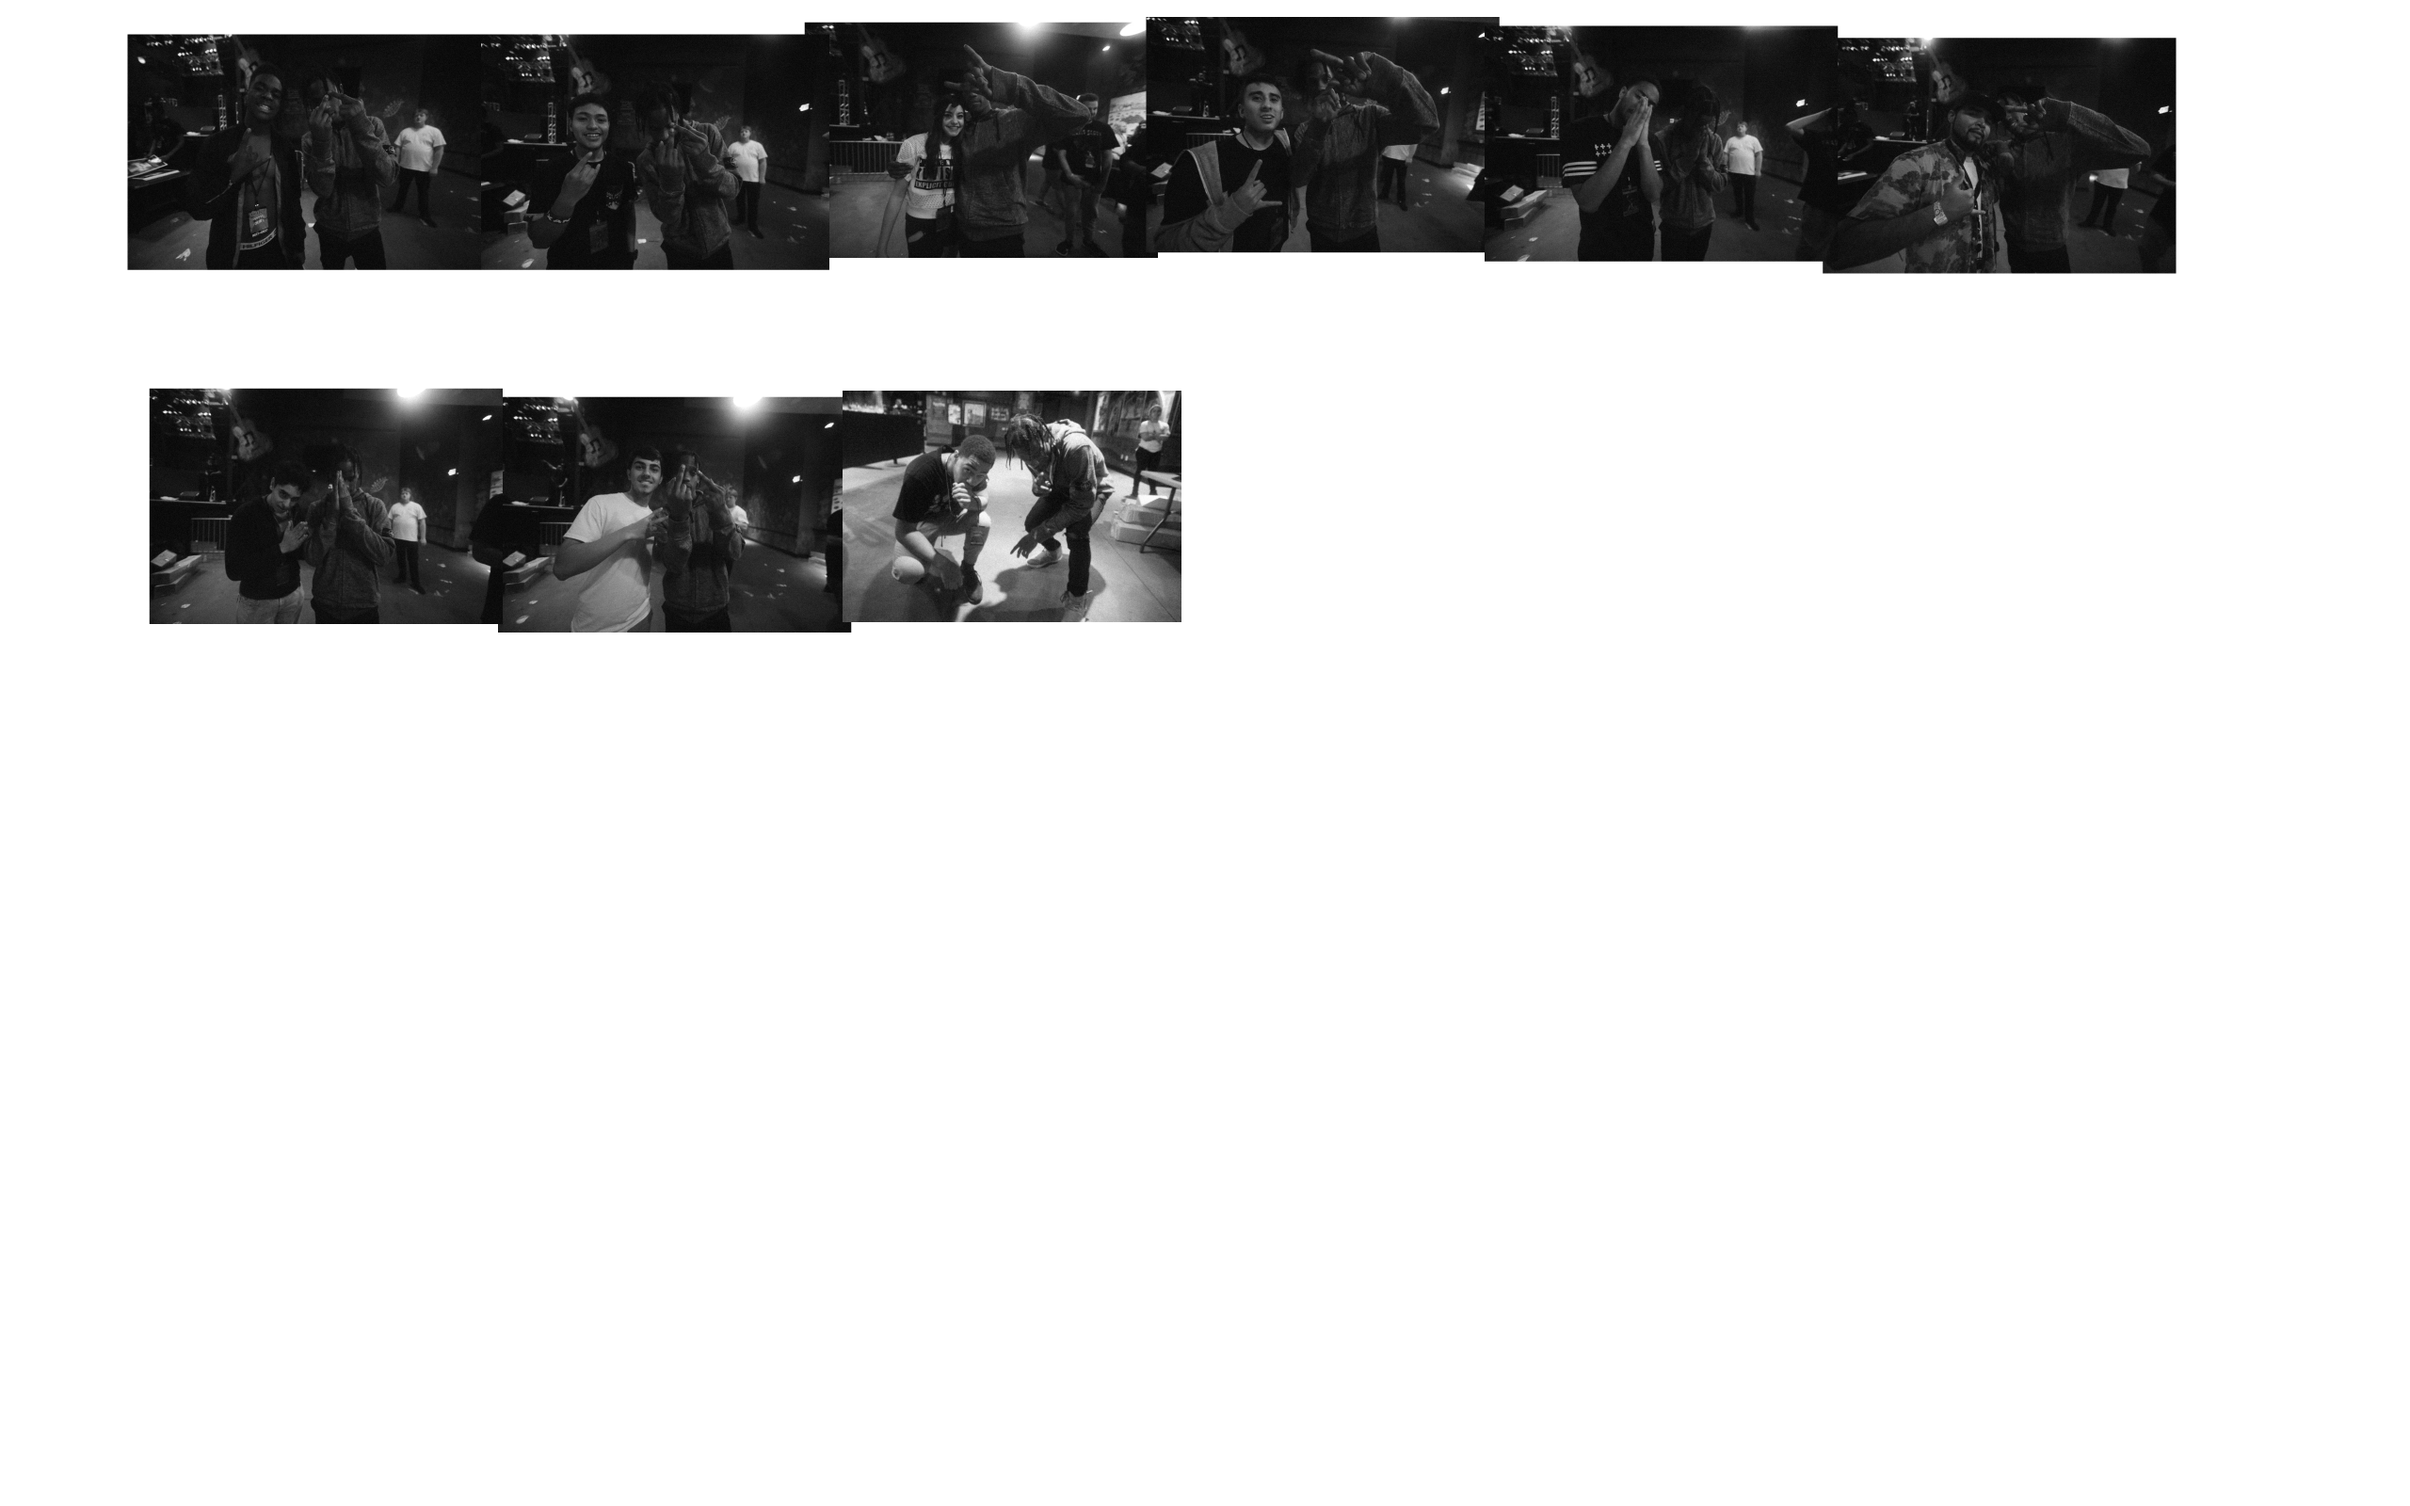
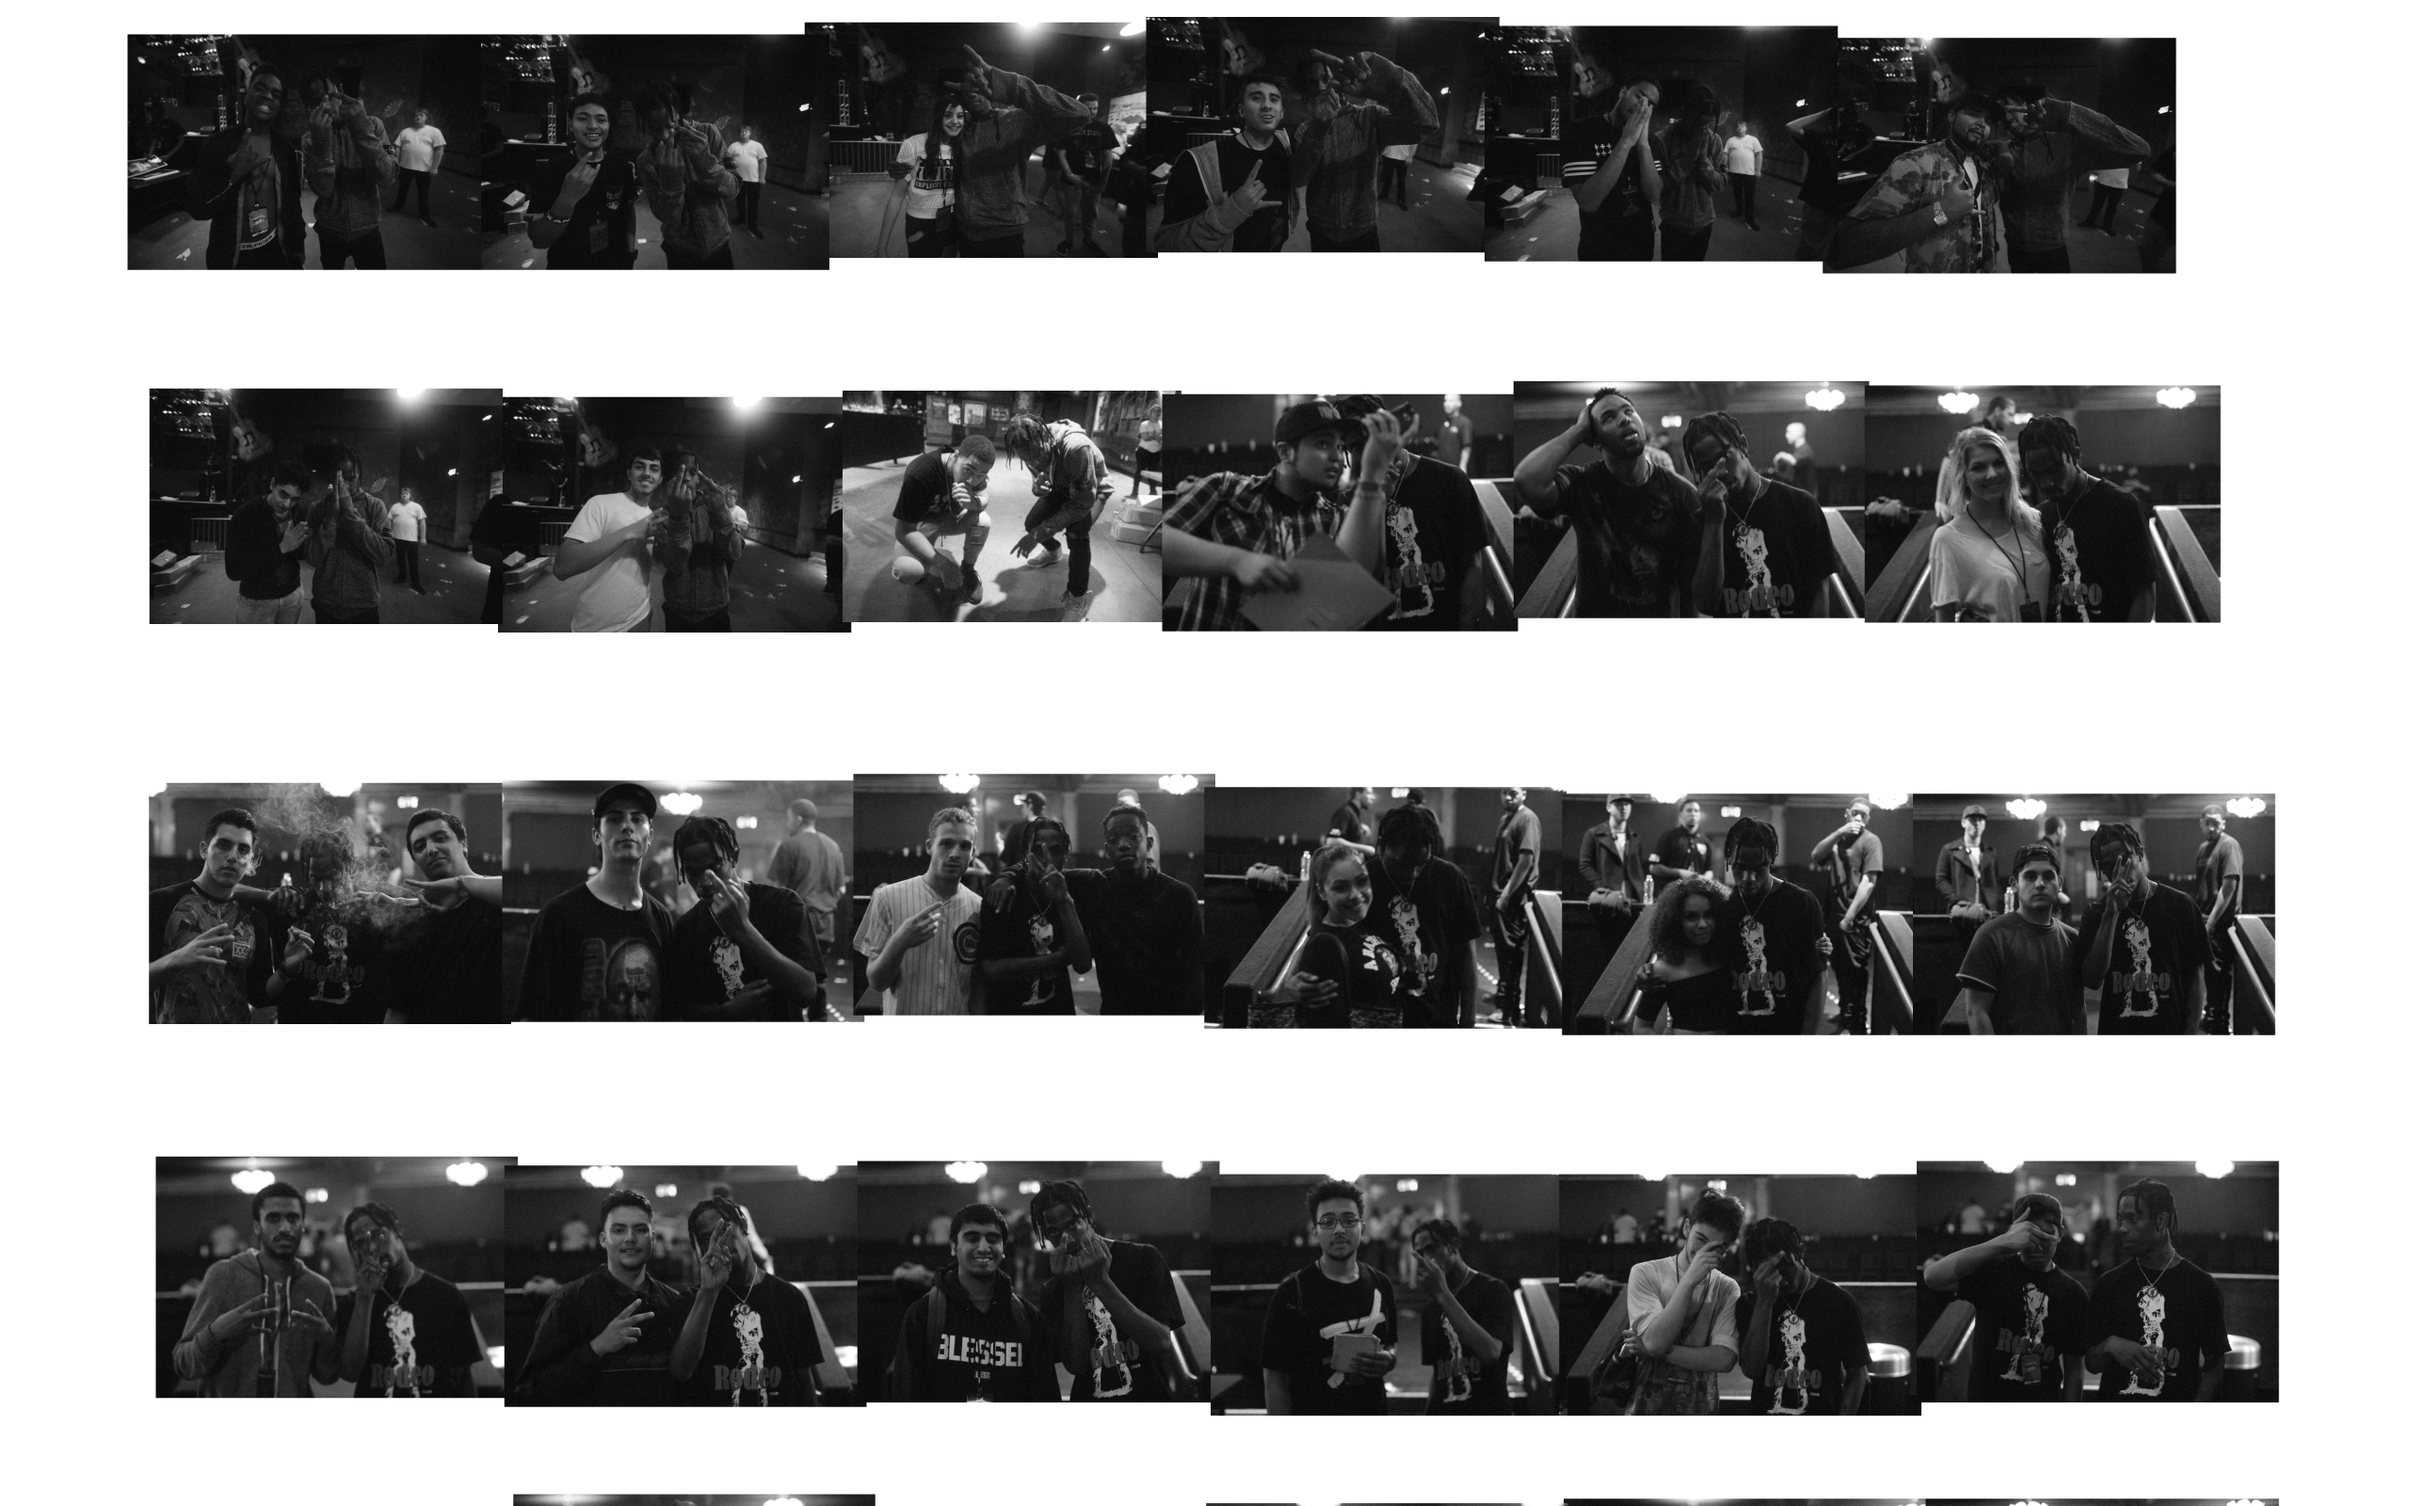
cool

diff --git a/photos/index.html b/photos/index.html
@@ -10,7 +10,7 @@
 		<meta content="Travis Scott" property="og:site_name" />
 		<meta content="http://travisscott.com/img/fb.png" property="og:image" />
 		<title>Travis Scott</title>
-		<meta name="viewport" content="width=device-width, initial-scale=1.0, maximum-scale=1.0, user-scalable=no" />
+		<meta name="viewport" content="width=device-width, initial-scale=1.0, maximum-scale=1.0, user-scalable=yes" />
 		<link rel="stylesheet" href="../css/normalize.css">
 		<link rel="stylesheet" href="../css/3.css">
 		<link rel="icon" href="../tsimages/favicon.ico" type="image/x-icon" />
@@ -44,6 +44,9 @@
 					<img src="img/4.png" alt="">
 					<img src="img/5.png" alt="">
 					<img src="img/6.png" alt="">
+					<img src="img/7.png" alt="">
+					<img src="img/8.png" alt="">
+					<img src="img/9.png" alt="">
 				</div>
 			</div>
 			<!-- <a href="" id="menu-button">MENU</a> -->

diff --git a/css/3.css b/css/3.css
@@ -203,7 +203,7 @@ a:focus, *:focus {
     li{
     	text-align: center;
 		font-size: 16px;
-		margin: 60px 0;
+		margin: 30px 0;
 	    /*text-shadow: 0px 1px 0px black;*/
     }
    .nav{
@@ -230,7 +230,7 @@ a:focus, *:focus {
 		margin: 0 10px;
     }
     #did-you-mobile{
-    	margin-top: -40px;
+    	margin-top: -20px;
     	z-index: -10;
     }
 /*    li {
@@ -284,5 +284,9 @@ a:focus, *:focus {
     }
     #did-you-mobile{
     	/*font-size: 16px;*/
+    }
+
+    .top-nav li{
+		margin: 0 5px;
     }
 }
